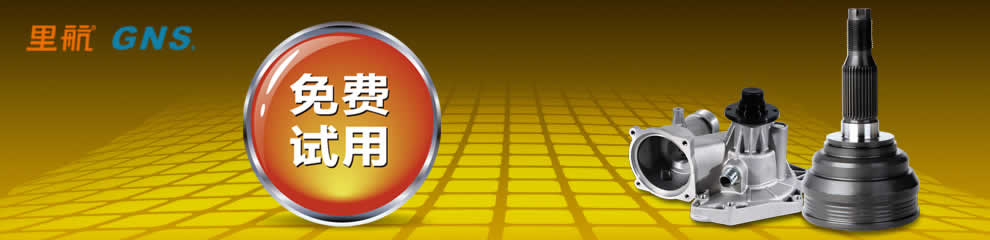
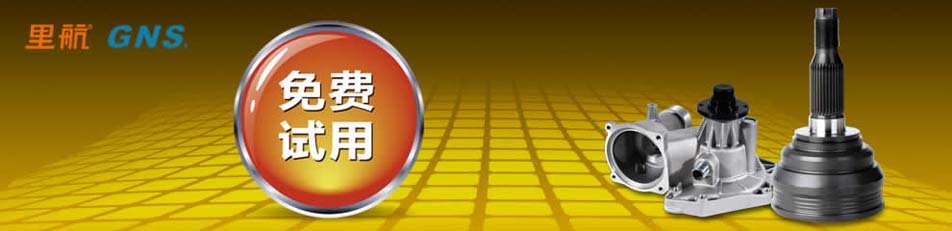
调整index整体大小，优化SEO，增加QQ插件等

diff --git a/Tpl/default/Index/index.html b/Tpl/default/Index/index.html
@@ -1,7 +1,9 @@
 <!DOCTYPE html PUBLIC "-//W3C//DTD XHTML 1.0 Transitional//EN" "http://www.w3.org/TR/xhtml1/DTD/xhtml1-transitional.dtd"> 
 <html xmlns="http://www.w3.org/1999/xhtml"> 
 <head> 
-	<meta http-equiv="Content-Type" content="text/html; charset=UTF-8" /> 
+	<meta http-equiv="Content-Type" content="text/html; charset=UTF-8" />
+	<meta name="keywords" content="汽配促销 知名配件 原厂配件 正品配件 外资配件 配件促销 汽配网 配件免费试用 优质配件 提高配件利润 配件利润高 找配件 好配件 配件直销 厂家直销配件 抢购配件 立配网"/>
+	<meta name="description" content="立配网是国内汽配行业特有的以促销为手段的垂直网络营销平台。我们致力于推动汽车产品替换市场对规格、质量、声誉及品牌的一手买卖资讯，让消费者享用到更多优质优价的产品；我们积极帮助汽配企业创造机遇，做汽车后市场最给力的营销网站。" />
 	<link rel="stylesheet" href="__PUBLIC__/css/common.css" type="text/css" media="screen" /> 
 	<link rel="stylesheet" href="__PUBLIC__/css/index.css" type="text/css" media="screen" /> 
     <link rel="stylesheet" href="__PUBLIC__/css/ad.css" type="text/css" media="screen" /> 
@@ -11,6 +13,7 @@
 	<link rel="stylesheet" href="__PUBLIC__/js/jqueryui/css/ui-lightness/jquery-ui-1.8.16.custom.css" type="text/css" media="screen" /> 
 	<script language="javascript" type="text/javascript" src="__PUBLIC__/js/jqueryui/js/jquery-ui-1.8.16.custom.min.js"></script>
 	<script language="javascript" type="text/javascript" src="__PUBLIC__/js/base/dialog.js"></script>
+	<script language="javascript" type="text/javascript" src="__PUBLIC__/js/Index/index.js"></script>
 	<title>欢迎光临——立配网</title>
 	
 	<script type="text/javascript">
@@ -30,22 +33,14 @@
 	<include file="./Tpl/default/Public/index_top.html" />
 	<div class="body">
 		<div class="align_center index_body">
-			<div class="roll_pic" id="roll_pic" style="display:none;"> 
-				<img src="__PUBLIC__/adpics/s1.jpg" width="990" height="240"/>
-				<img src="__PUBLIC__/adpics/s2.jpg" width="990" height="240"/>
-				<img src="__PUBLIC__/adpics/s3.jpg" width="990" height="240"/>
-				<img src="__PUBLIC__/adpics/s4.jpg" width="990" height="240"/>
-				<img src="__PUBLIC__/adpics/s5.jpg" width="990" height="240"/>
-				<div class="ico_c"></div>
-			</div>
             
             <div class="ad" >
 				<ul class="slider" >
-					<img src="__PUBLIC__/adpics/s1.jpg" width="990" height="240"/>
-					<img src="__PUBLIC__/adpics/s2.jpg" width="990" height="240"/>
-					<img src="__PUBLIC__/adpics/s3.jpg" width="990" height="240"/>
-					<img src="__PUBLIC__/adpics/s4.jpg" width="990" height="240"/>
-					<img src="__PUBLIC__/adpics/s5.jpg" width="990" height="240"/>
+					<img src="__PUBLIC__/adpics/s1.jpg" width="953" height="231"/>
+					<img src="__PUBLIC__/adpics/s2.jpg" width="953" height="231"/>
+					<img src="__PUBLIC__/adpics/s3.jpg" width="953" height="231"/>
+					<img src="__PUBLIC__/adpics/s4.jpg" width="953" height="231"/>
+					<img src="__PUBLIC__/adpics/s5.jpg" width="953" height="231"/>
 			    </ul>
 			    <ul class="num" >
 				    <li>1</li>
@@ -71,7 +66,7 @@
                             </div>
                             <div id="templayer" style="left: 0px; visibility: hidden; position: absolute; top: 0px"></div>
 
-                             <div id="www_qpsh_com" style="overflow:hidden;width:750px;">
+                             <div id="www_qpsh_com" style="overflow:hidden;width:700px;">
                                 <table align="left" cellpadding="0" border="0">
                                     <tr>
                                         <td id="www_qpsh_com1" valign="top">
@@ -139,6 +134,39 @@
 				<div class="btn_goright"></div>
 			</div>
 			<div class="clear"></div>
+			<div class="search">
+				<div class="search_text gray">请输入要查询的内容</div>
+				<div class="search_form">
+					<div class="search_input"><input type="text" /></div>
+					<div class="search_btn"><input type="button" value=" 搜     索 "/></div>
+				</div>
+				<div class="search_hot">
+					<a href="#" class="gray">3M</a> <a href="#" class="gray">刹车片</a> <a href="#" class="gray">机油</a> <a href="#" class="gray">导航仪</a>
+					 <a href="#" class="gray">WINX</a>
+				</div>
+			</div>
+			<div class="clear"></div>
+			<div class="category">
+				<div class="category_fenlei">分类</div>
+				<div class="category_fenlei_content">
+					<a href="#" class="black">热门促销</a><span class="red">(10)</span>
+					<a href="#" class="black">本月促销</a><span class="red">(10)</span>
+					<a href="#" class="black">往期促销</a><span class="red">(10)</span>
+					<a href="#" class="black">易耗配件</a><span class="red">(10)</span>
+					<a href="#" class="black">机修促销</a><span class="red">(10)</span>
+					<a href="#" class="black">汽车用品</a><span class="red">(10)</span>
+				</div>
+				<div class="category_news">资讯</div>
+				<div class="category_news_content">
+					<a href="#" class="black">汽配资讯</a>
+					<a href="#" class="black">产品报告</a>
+					<a href="#" class="black">厂商动态</a>
+					<a href="#" class="black">经销动态</a>
+					<a href="#" class="black">一线维修</a>
+					<a href="#" class="black">汽配人物</a>
+				</div>
+			</div>
+			<div class="clear"></div>
 			<div class="layer1">
 				<div class="left">
 					<div class="promotion">
@@ -193,6 +221,12 @@
 						<div class="right_bottom"></div>
 					</div>
 					<div class="clear"></div>
+					<div class="ads">
+						<div><img src="__PUBLIC__/images/ad1.jpg" /></div>
+						<div><img src="__PUBLIC__/images/ad2.jpg" /></div>
+						<div><img src="__PUBLIC__/images/ad3.jpg" /></div>
+					</div>
+					<div class="clear"></div>
 				</div>
 			</div>
 			<div class="clear"></div>
@@ -200,6 +234,10 @@
 	</div>
 	<include file="./Tpl/default/Public/index_bottom.html" />
 	<include file="./Tpl/default/Public/dialog.html" />  
+	<div class="kf">
+		<div><img src="__PUBLIC__/images/kf_top.png" /></div>
+		<div><a target="_blank" href="http://wpa.qq.com/msgrd?v=3&uin=2604517234&site=qq&menu=yes"><img src="__PUBLIC__/images/kf_bottom.png" border="0"/></a></div>
+	</div>
     <script type="text/javascript" language="javascript">
         var speed = 40//速度数值越大速度越慢
         www_qpsh_com2.innerHTML = www_qpsh_com1.innerHTML

diff --git a/Public/css/index.css b/Public/css/index.css
@@ -19,7 +19,7 @@ a:hover{
 	background:url("../images/bottom_bg.jpg");
 }
 .index_top {
-	width: 990px;
+	width: 953px;
 }
 
 .menu_container{
@@ -70,8 +70,8 @@ a:hover{
 }
 .subscription{
 	position:absolute;
-	left:790px;
-	width:300px;
+	right:0px;
+	width:205px;
 	bottom:0px;
 	text-align:left;
 }
@@ -84,7 +84,7 @@ a:hover{
 }
 
 .index_body{
-	width:990px;
+	width:953px;
 }
 .body{
 	background: url(../images/reg_body_bg.jpg) repeat-y;
@@ -94,8 +94,9 @@ a:hover{
 }
 
 .roll_brand{
-	background-color:gray;
-	height:75px;
+	background:url(../images/brand/bg.jpg);
+	height:71px;
+	border:2px solid #939393;
 }
 
 .icon_round{
@@ -103,15 +104,15 @@ a:hover{
 	width:20px;
 	float:left;
 	margin-left:20px;
-	background: url(../images/icon_round.jpg);
+	background: url(../images/icon_house.jpg);
 	background-position:center;
 	background-repeat: no-repeat;
 }
 
 .roll_brand .character{
 	float:left;
-	line-height:75px;
-	color:white;
+	line-height:71px;
+	color:#4f4f4f;
 	font-weight:bold;
 	font-size:20px;
 	margin-left:5px;
@@ -128,7 +129,7 @@ a:hover{
 	
 }
 .pic_brand{
-	width:760px;
+	width:700px;
 	height:100%;
 	float:left;
 	overflow:hidden;
@@ -168,9 +169,7 @@ a:hover{
 .search_form{
 	width:640px;
 	height:100%;
-	margin-left:20px;
-	padding-left:0px!important;/*modified*/
-	padding-left:20px;
+	margin-left:10px;
 	background: url(../images/search_bg.jpg);
 	background-position:center;
 	background-repeat: no-repeat;
@@ -183,11 +182,10 @@ a:hover{
 	float:left;
 	top:23px;
 	position:absolute;
-	margin-left:30px!important;/*modified*/
-	margin-left:10px;
+	padding-left:30px;
 }
 .search_input input{
-	width:465px;
+	width:460px;
 	border:0;
 	height:25px;
 	color:gray;
@@ -214,7 +212,6 @@ a:hover{
 }
 
 .search_hot{
-	width:200px;
 	float:left;
 	margin-left:20px!important;/*modified*/
 	margin-left:0px;
@@ -224,8 +221,8 @@ a:hover{
 }
 
 .category{
-	line-height:70px;
-	height:70px;
+	line-height:40px;
+	height:40px;
 	width:100%;
 }
 .category_fenlei{
@@ -233,11 +230,11 @@ a:hover{
 	background-position:center left;
 	background-repeat: no-repeat;
 	height:100%;
-	padding-left:40px;
+	padding-left:30px;
 	color:gray;
 	font-weight:bold;
 	font-size:20px;
-	width:60px;
+	width:50px;
 	float:left;
 }
 .category_fenlei_content{
@@ -254,11 +251,11 @@ a:hover{
 	background-repeat: no-repeat;
 	height:100%;
 	float:left;
-	width:60px;
+	width:50px;
 	color:gray;
 	font-weight:bold;
 	font-size:20px;
-	padding-left:40px;
+	padding-left:30px;
 }
 
 .category_news_content{
@@ -274,7 +271,7 @@ a:hover{
 .layer1 .left{
 	float:left;
 	height:100%;
-	width:770px;
+	width:733px;
 }
 .layer1 .right{
 	float:left;
@@ -331,7 +328,7 @@ a:hover{
 .promotion_content .row{
 	height:230px;
 	padding-top:15px;
-	padding-left:20px;
+	padding-left:10px;
 }
 .promotion_content .line{
 	border-width:1px 0 0 0;
@@ -344,7 +341,7 @@ a:hover{
 	width:215px;
 	border:1px solid #bebebe;
 	float:left;
-	margin-left:20px;
+	margin-left:15px;
 }
 
 .promotion_content .row .item .img{
@@ -595,7 +592,7 @@ a:hover{
 	background-position:center;
 }
 .foot_width{
-	width:990px;
+	width:953px;
 }
 .foot_help{
 	height:150px;
@@ -718,7 +715,6 @@ a:hover{
 .promotion .tab .item1 .text{
 	height:30px;
 	background:url(../images/layer1/icon_tab_1.jpg) no-repeat;
-	
 	background-color:white;
 	color:#7e7e7e;
 	font-size:14px;
@@ -730,3 +726,13 @@ a:hover{
 	width:100px;
 	float:left;
 }
+.kf{
+	left:50%;
+	position: fixed;
+	top: 200px; 
+	width:92px;
+	height:151px;
+	margin-left:500px;
+}
+* html,* html body{background-image:url(about:blank);background-attachment:fixed}
+* html .kf{position:absolute;top:expression(eval(document.documentElement.scrollTop) + 200)}

diff --git a/Tpl/default/Activity/show.html b/Tpl/default/Activity/show.html
@@ -2,6 +2,8 @@
 <html xmlns="http://www.w3.org/1999/xhtml"> 
 <head> 
 	<meta http-equiv="Content-Type" content="text/html; charset=UTF-8" /> 
+	<meta name="keywords" content="{$result.sponsor} 汽配促销 知名配件 原厂配件 正品配件 外资配件 配件促销 汽配网 配件免费试用 优质配件 提高配件利润 配件利润高 找配件 好配件 配件直销 厂家直销配件 抢购配件 立配网"/>
+	<meta name="description" content="立配网是国内汽配行业特有的以促销为手段的垂直网络营销平台。我们致力于推动汽车产品替换市场对规格、质量、声誉及品牌的一手买卖资讯，让消费者享用到更多优质优价的产品；我们积极帮助汽配企业创造机遇，做汽车后市场最给力的营销网站。" />
 	<link rel="stylesheet" href="__PUBLIC__/css/common.css" type="text/css" media="screen" /> 
 	<link rel="stylesheet" href="__PUBLIC__/css/index.css" type="text/css" media="screen" /> 
 	<link rel="stylesheet" href="__PUBLIC__/css/activity.css" type="text/css" media="screen" /> 

diff --git a/Tpl/default/Public/index_top.html b/Tpl/default/Public/index_top.html
@@ -7,7 +7,7 @@
 	<div class="head">
 		<div class="align_center index_top">
 			<div style="position:relative; margin-bottom:-2px;">
-				<img src="__PUBLIC__/images/logo.jpg" />
+				<img src="__PUBLIC__/images/logo_953.jpg" />
 				<div class="menu_container">
 					<div class="top_menu menu_index1" href="/"></div>
 					<div class="top_menu menu_help" href="/Help/"></div>

diff --git a/Public/css/help.css b/Public/css/help.css
@@ -68,7 +68,7 @@
 .help_right{
 	float:left;
 	height:100%;
-	width:718px;
+	width:690px;
 	margin-left:30px;
 	margin-top:20px;
 }
@@ -85,7 +85,7 @@
 	border-top:1px solid #DEDEE0;
 	border-bottom:1px solid #DEDEE0;
 	background-color:#F3F3F3;
-	width:727px;
+	width:100%;
 	line-height:25px;
 	padding-top:10px;
 	padding-left:15px;

diff --git a/Public/css/ad.css b/Public/css/ad.css
@@ -8,8 +8,8 @@
 
 .ad { 
 	margin-bottom:10px;
-	width:990px; 
-	height:240px; 
+	width:953px; 
+	height:231px; 
 	overflow:hidden;
 	position:relative;
 }
@@ -21,8 +21,8 @@
 	display:inline;
 }
 .slider img{ 
-	width:990px; 
-	height:240px;
+	width:953px; 
+	height:231px;
 	display:block;
 }
 .num{ 

diff --git a/Public/css/activity.css b/Public/css/activity.css
@@ -28,7 +28,6 @@
 	padding-left:10px;
  }
  .activity_content .right{
-	width:340px;
 	float:left;
  }
  .activity_content .left .btn {
